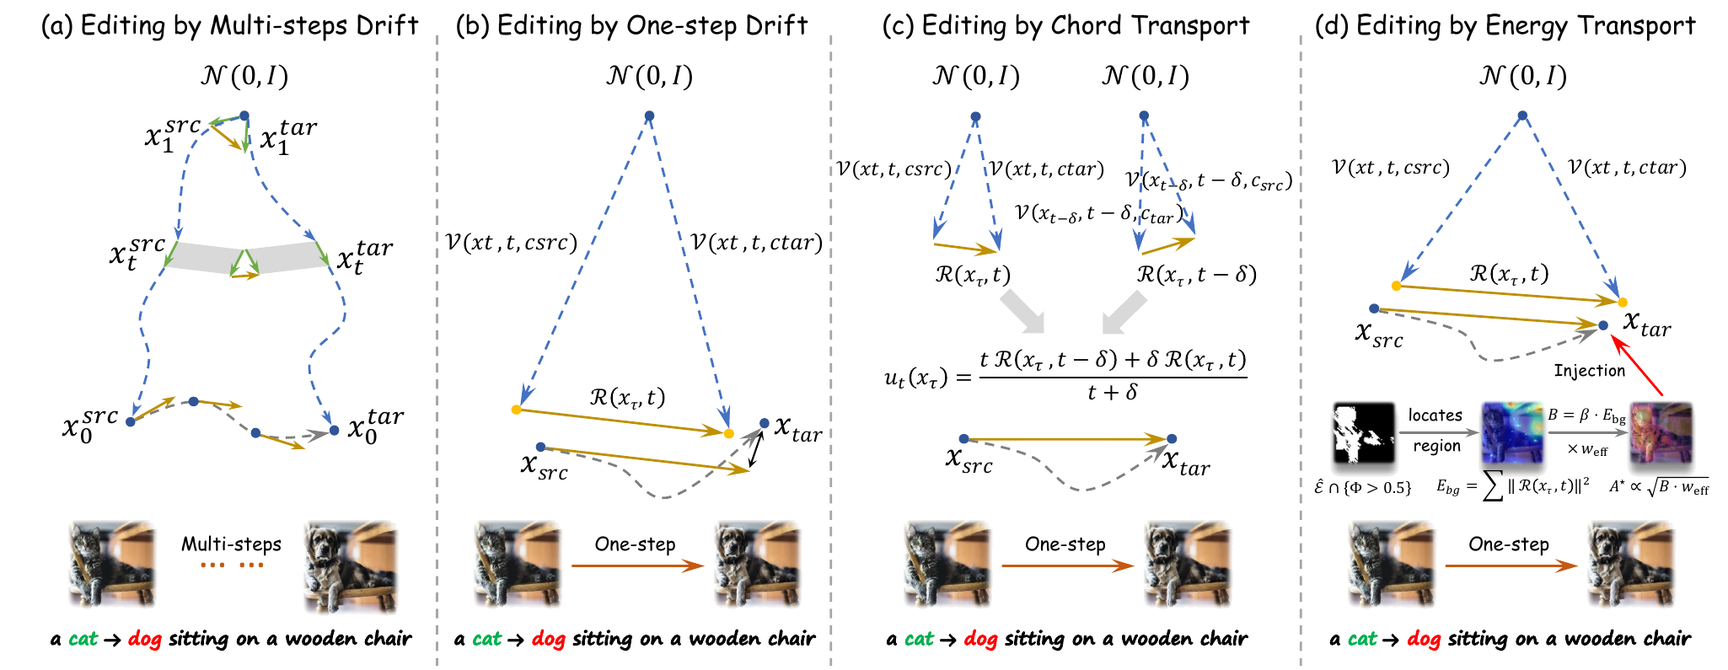
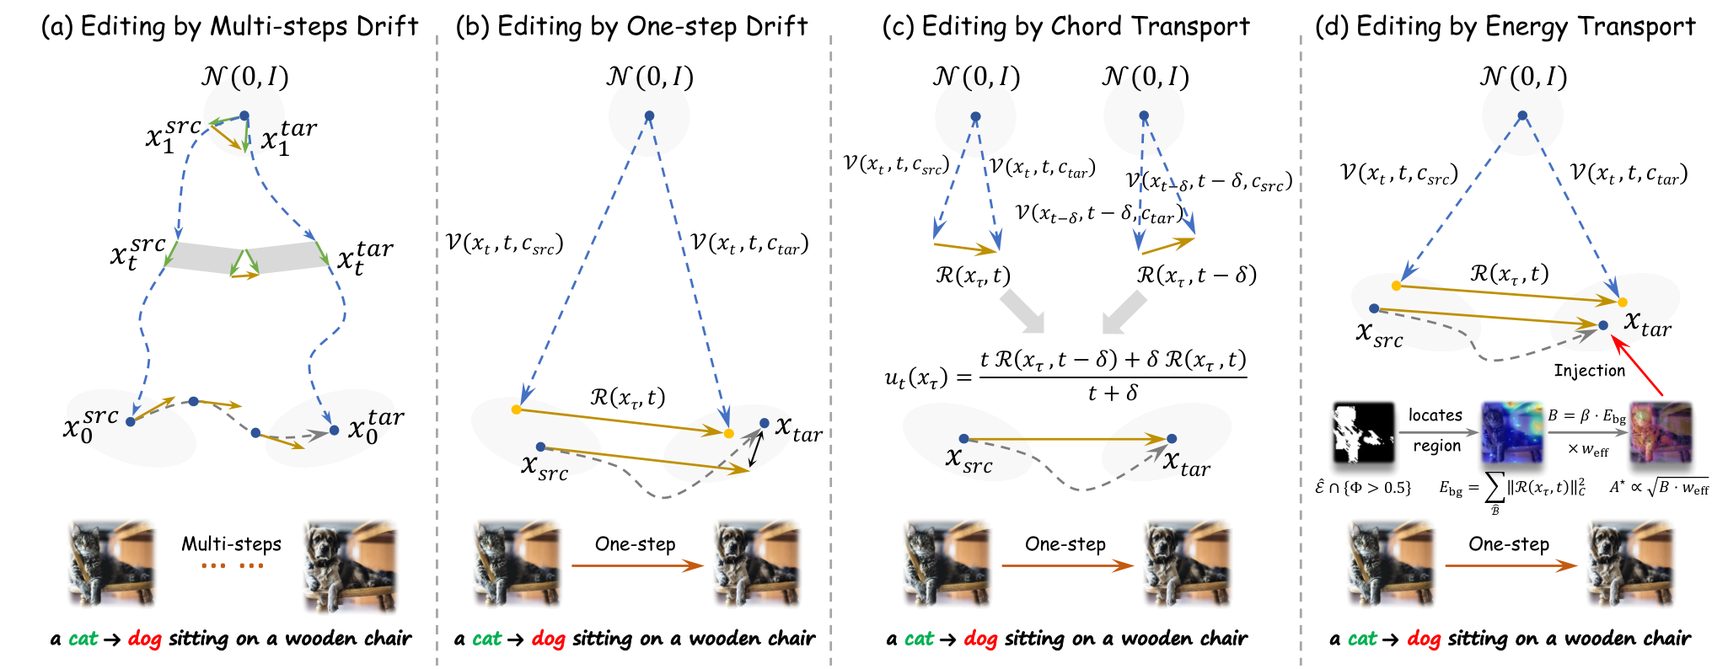
Sync page with the current manuscript
Abstract, teaser/figure captions and results prose had drifted behind the
paper; the factorial ablation table still carried a MUSIQ-E column from an
earlier run that no longer exists in the manuscript. Also adds the
cross-dataset/cross-backbone table and re-exports the three regenerated
figures with transparent backgrounds.

diff --git a/index.html b/index.html
@@ -112,7 +112,7 @@
               </div>
             </div>
             <figcaption class="figure-caption mt-3">
-              <strong>One-step editing by BudEdit.</strong> It allocates an image-dependent energy budget within the effective injection support, preserving background fidelity while substantially strengthening the edit.
+              <strong>One-step editing by BudEdit.</strong> It converts background residual energy into a spatial budget and allocates the constructed injection only to edit-relevant regions for stronger, more coherent edits.
             </figcaption>
           </div>
           <script>
@@ -173,11 +173,11 @@
           <p>
             One-step text-guided diffusion editing is efficient but prone to spatially misallocated updates that distort the edited object and alter the background.
             Existing methods often improve stability by averaging the editing field across timesteps.
-            We instead identify uncontrolled spatial energy allocation as a distinct and measurable failure mode: single-draw residual amplitudes are noise-sensitive, making the background field unsafe to transport directly but its total energy a usable per-image scale.
-            <strong>BudEdit</strong> turns that scale into an image-dependent budget and reallocates it to edit-relevant regions selected jointly by residual energy and cross-attention, controlling where editing energy is spent rather than averaging over timesteps.
-            The resulting training-free, inversion-free editor spends the budget on transport and reuses it to scale a gated refinement at a lower noise level, reusing cross-attention for localization at no additional UNet evaluation.
-            The budgeted injection field matches its image-dependent budget exactly and vanishes on the background support it identifies, by construction.
-            On PIE-Bench with SD-Turbo, BudEdit outperforms ChordEdit under each method's reported default settings on all 11 evaluated metrics, including a <strong>2.1&nbsp;dB</strong> gain in background PSNR, <strong>31%</strong> lower DINO, and <strong>36%</strong> lower LPIPS, while improving edited-region alignment and perceptual quality and reporting the lowest runtime in the comparison.
+            We instead identify spatial energy misallocation as a distinct and measurable failure mode: across two independent noise draws, the residual field is essentially unrepeatable, making the background field unreliable for direct transport, while its total energy still sets a usable magnitude for the draw at hand.
+            <strong>BudEdit</strong> turns that magnitude into an explicit budget and reallocates it to edit-relevant regions selected jointly by residual energy and cross-attention, controlling where editing energy is spent rather than averaging over timesteps.
+            The resulting training-free, inversion-free editor spends the budget on transport and reuses it to scale a correction in a lower-noise gated refinement.
+            The budgeted injection field matches its prescribed budget exactly and vanishes on the identified background support, by construction.
+            On PIE-Bench with SD-Turbo, BudEdit outperforms ChordEdit under each method's reported default settings on all 11 evaluated metrics, including a <strong>2.1&nbsp;dB</strong> gain in background PSNR, <strong>31%</strong> lower DINO, and <strong>36%</strong> lower LPIPS, while improving all five editing-quality metrics and reporting the lowest runtime in the comparison.
           </p>
         </div>
       </div>
@@ -194,7 +194,7 @@
         <div class="content has-text-justified is-size-6 motivation-points">
           <ul>
             <li>Distilled one-step generators (e.g. SD-Turbo) make real-time image editing practical, but a single large integration step remains unstable: the editing signal is a difference of two conditioned outputs, distorting the background.</li>
-            <li>Recent editors such as ChordEdit stabilize this by averaging the editing field across nearby timesteps, a purely temporal remedy. We ask instead: can the spatial distribution of the field be controlled explicitly?</li>
+            <li>Recent editors such as ChordEdit stabilize this by averaging the editing field across nearby timesteps, a purely temporal remedy; WhereEdit infers an edit mask and amplifies conditional transport, and RRLS refines the transport with a Riemannian residual line search &mdash; neither controls where the single-draw field deposits its energy. We ask instead: can the spatial distribution of the field be controlled explicitly rather than averaged uniformly across timesteps?</li>
             <li>Across two noise draws, the residual is essentially unrepeatable (cosine similarity &asymp; 0.1), so its raw amplitude is unsafe to transport, but its total energy is a stable scale. BudEdit turns this into an explicit spatial budget.</li>
           </ul>
         </div>
@@ -224,22 +224,26 @@
     <figure class="figure-block">
       <img src="static/images/fig2_framework.png" alt="BudEdit framework overview">
       <figcaption class="figure-caption">
-        <strong>Comparison of editing paradigms.</strong> BudEdit reallocates draw-sensitive residual energy within an attention-gated energy support, in contrast to temporal-smoothing approaches that average the field uniformly across timesteps.
+        <strong>Comparison of editing paradigms.</strong> (a) multi-step editing buys stability by spreading the update over many small steps; (b) one-step editing integrates the measured field in a single large step; (c) chord transport forms the one-step update from a time-weighted average of residual fields at two timesteps; (d) energy transport converts background residual energy into a budget and spends it inside the effective injection support.
       </figcaption>
     </figure>
 
     <div class="content has-text-justified is-size-6 mt-5">
-      <p><strong>Harvesting the budget.</strong> The aggregate residual energy measured on the operational background support, the region outside the model's own thresholded energy support, sets an image-dependent budget $B = \beta E_{\mathrm{bg}}$. This is a measurement-derived scale, not a conserved quantity being transported: the construction matches this prescribed budget exactly, without assuming conservation of the measured background energy.</p>
+      <p><strong>Harvesting the budget.</strong> The aggregate residual energy measured on the operational background support, the region outside the model's own thresholded energy support, sets an image-dependent budget $B = \beta E_{\mathrm{bg}}$ with $\beta{=}4.0$ by default. This is a measurement-derived scale, not a conserved quantity being transported: the construction matches this prescribed budget exactly, without assuming conservation of the measured background energy. Because the budget sums rather than averages, it carries the area of the background support, so the mean injected energy density scales with that area relative to the injection support: a small target on a large canvas receives a denser correction.</p>
       <p><strong>Allocation as information projection.</strong> Within the effective injection support, where the residual-energy support meets a prompt-difference attention gate, the budget is distributed by solving a KL-projection problem in closed form. The resulting amplitude map matches the attention-derived allocation profile exactly while consuming exactly the prescribed budget, and vanishes everywhere on the background support by construction.</p>
-      <p><strong>Budget-aware gated refinement.</strong> A second, lower-noise pass then cleans up the transported image within an attention-derived gate: GatedRefine scales its correction by the same budget $B$, reinjects attenuated source-side high-frequency detail, and performs an attention-gated micro-swap near uncertain boundaries, restoring source detail without expanding the supported edit region.</p>
+      <p><strong>Budget-aware gated refinement.</strong> A second forward pass at a lower noise level, reusing the noise realization of the transport pass, cleans up the transported image. Within a cleanup gate &mdash; the thresholded, dilated second-pass attention readout intersected with the second-pass energy support &mdash; GatedRefine starts from the target-conditioned prediction, reinjects a fraction of the same budget $B$ as a residual correction, and applies a gated local extrapolation to recover reliable but under-edited content; a low-amplitude high-frequency source anchor and an attention-modulated micro-swap then restore local texture and stabilize uncertain structure. Final fusion with the source image is governed by an output gate that keeps the transport support admitted by second-pass attention and adds only extensions jointly supported by the second-pass residual and attention.</p>
+    </div>
+
+    <div class="content has-text-justified is-size-6 mt-5">
+      <p><strong>Localization derives from the model itself.</strong> The residual-energy mask and the edit-attention map intersect to form the derived mask; editing uses no external or human-annotated mask, and the GT mask above is included for visual comparison only. In the Overlap panel, green marks the common support of the derived mask and the GT mask, while red and blue mark regions selected by only one of them. The appendix reports the overlap between the derived support and the annotated region over all $700$ pairs.</p>
     </div>
 
     <div class="columns is-centered mt-4">
       <div class="column is-four-fifths">
         <figure class="figure-block">
-          <img src="static/images/fig3_energy.png" alt="BudEdit energy visualization">
+          <img src="static/images/fig3_energy.png" alt="BudEdit annotation-free localization">
           <figcaption class="figure-caption">
-            <strong>Field energy visualization.</strong> Spatial energy is concentrated within the effective injection support and vanishes on the identified background support, illustrating the construction-level budget-matching and hard-support guarantees.
+            <strong>Annotation-free localization.</strong> Two edits, from birds to origami birds and from a dog to a lion. The columns show the Real Image, Energy Mask, Edit-Attention Map, Derived Mask, GT Mask, Overlap, background energy, field energy of the composed transport field, and output.
           </figcaption>
         </figure>
       </div>
@@ -254,8 +258,10 @@
 
     <div class="content has-text-justified is-size-6">
       <p>
-        On <strong>PIE-Bench</strong> with SD-Turbo (700 images, 10 editing categories, one sampling step and two UNet evaluations), BudEdit is compared against multi-step, few-step, and one-step editors under each method's own reported default configuration.
-        Among <em>training-free one-step</em> editors, BudEdit leads all six background-fidelity metrics and both edited-region alignment metrics against ChordEdit, while reporting the lowest runtime (<strong>0.21s</strong>) in the comparison &mdash; a <strong>2.1&nbsp;dB</strong> PSNR gain, <strong>31%</strong> lower DINO, and <strong>36%</strong> lower LPIPS.
+        On <strong>PIE-Bench</strong> with SD-Turbo (700 images, 10 editing categories, all $512{\times}512$, seed fixed at 42 for all methods), BudEdit is compared against multi-step, few-step, and one-step editors under each method's own reported default configuration. Like ChordEdit, BudEdit uses one sampling step and two UNet evaluations, with $t_s{=}0.78$, $t_e{=}0.38$, $\alpha{=}0.7$ and $\beta{=}4.0$; runtimes are measured on an RTX 4090.
+        Among one-step methods, BudEdit achieves the highest PSNR, CLIP-D, MUSIQ and MUSIQ-E while using two UNet evaluations and reporting the lowest runtime of <strong>0.21&nbsp;s</strong> per image.
+        Among <em>training-free one-step</em> editors it leads all six background-fidelity metrics and exceeds ChordEdit on <strong>all five</strong> editing-quality metrics &mdash; a <strong>2.1&nbsp;dB</strong> background PSNR gain, <strong>31%</strong> lower DINO, and <strong>36%</strong> lower LPIPS &mdash; while SwiftEdit reaches its background numbers only with task-specific training.
+        The few-step and multi-step methods provide a broader quality&ndash;compute reference rather than a same-budget ablation: they use $4$&ndash;$100$ evaluations and report $0.84$&ndash;$15.03$&nbsp;s per image, compared with BudEdit's two evaluations and $0.21$&nbsp;s.
       </p>
     </div>
 
@@ -290,7 +296,7 @@
           <tr><td rowspan="5">One-step</td><td>SwiftEdit</td><td class="cell-second">24.22</td><td class="cell-best">5.41</td><td class="cell-best">76.39</td><td class="cell-best">0.82</td><td class="cell-best">15.14</td><td class="cell-best">96.34</td><td>24.48</td><td>21.54</td><td>7.56</td><td>66.52</td><td>60.05</td><td>&#10007;</td><td>&#10007;</td><td>1</td><td>2</td><td>0.45</td><td>19500</td></tr>
           <tr><td>ChordEdit</td><td>22.63</td><td>7.98</td><td>122.66</td><td>0.77</td><td>28.81</td><td>95.04</td><td>24.83</td><td>22.15</td><td>10.72</td><td class="cell-second">67.21</td><td class="cell-second">60.19</td><td>&#10003;</td><td>&#10003;</td><td>1</td><td>2</td><td class="cell-second">0.26</td><td class="cell-second">7333</td></tr>
           <tr><td>WhereEdit</td><td>24.05</td><td>7.97</td><td>108.22</td><td>0.80</td><td>31.03</td><td>94.93</td><td>25.18</td><td class="cell-best">22.66</td><td>10.78</td><td>64.28</td><td>56.39</td><td>&#10003;</td><td>&#10003;</td><td>1</td><td>3</td><td>0.29</td><td>7339</td></tr>
-          <tr><td>RRLS</td><td>23.92</td><td>6.27</td><td>111.40</td><td>0.81</td><td>25.07</td><td>95.21</td><td class="cell-best">25.38</td><td>22.09</td><td class="cell-second">11.47</td><td>65.90</td><td>57.79</td><td>&#10003;</td><td>&#10003;</td><td>1</td><td>4</td><td>0.52</td><td class="cell-second">7333</td></tr>
+          <tr><td>RRLS</td><td>23.92</td><td>6.27</td><td>111.40</td><td class="cell-second">0.81</td><td>25.07</td><td>95.21</td><td class="cell-best">25.38</td><td>22.09</td><td class="cell-second">11.47</td><td>65.90</td><td>57.79</td><td>&#10003;</td><td>&#10003;</td><td>1</td><td>4</td><td>0.52</td><td class="cell-second">7333</td></tr>
           <tr class="highlight-row"><td><strong>BudEdit</strong></td><td class="cell-best"><strong>24.71</strong></td><td class="cell-second"><strong>5.54</strong></td><td class="cell-second"><strong>78.24</strong></td><td class="cell-best"><strong>0.82</strong></td><td class="cell-second"><strong>20.01</strong></td><td class="cell-second"><strong>96.17</strong></td><td class="cell-second"><strong>25.25</strong></td><td class="cell-second"><strong>22.52</strong></td><td class="cell-best"><strong>12.28</strong></td><td class="cell-best"><strong>67.77</strong></td><td class="cell-best"><strong>60.31</strong></td><td>&#10003;</td><td>&#10003;</td><td><strong>1</strong></td><td><strong>2</strong></td><td class="cell-best"><strong>0.21</strong></td><td class="cell-best"><strong>7319</strong></td></tr>
         </tbody>
       </table>
@@ -303,7 +309,7 @@
     <figure class="figure-block mt-5">
       <img src="static/images/fig6_comparison.png" alt="BudEdit qualitative comparison">
       <figcaption class="figure-caption">
-        <strong>Qualitative comparison.</strong> BudEdit produces clearly delineated edits (e.g. a well-defined lion mane in latte art) while better preserving background surroundings (e.g. the plate and side dishes in the steak-to-salmon example) compared with representative baselines.
+        <strong>Qualitative comparison with the methods of the table above.</strong> Several baselines exhibit background color shifts, ghosting, or structural distortion, while BudEdit better preserves the source surroundings and produces detailed edits with clean boundaries, retaining the intended edit semantics throughout. In the lion latte-art example it yields a clearly delineated mane while preserving the cup and table appearance of the source; in the steak-to-salmon example it preserves the dark plate and side dishes.
       </figcaption>
     </figure>
   </div>
@@ -315,7 +321,10 @@
     <h2 class="title is-3 has-text-centered">Ablation Study</h2>
     <div class="content has-text-justified is-size-6">
       <p>
-        Ablations confirm that both the spatial reallocation mechanism and the second-pass cleanup are individually necessary and jointly complementary: reallocation alone can overlay target texture without fully completing the edit, cleanup alone yields only a slight structural change, and only the full configuration converts the edit coherently while preserving the background.
+        <strong>Comparison with chord transport.</strong> Disabling ChordEdit's chord window ($\delta{=}0$) raises CLIP-E from $22.15$ to $22.54$, but lowers MUSIQ-E from $60.19$ to $55.97$ and background PSNR from $22.63$ to $20.13$&nbsp;dB, and the window-off outputs show visible background and structural distortion. CLIP-E alone therefore does not fully reflect edit quality, which is why MUSIQ-E is reported as a complementary measure of edited-region perceptual quality. Without relying on temporal smoothing, BudEdit improves all five metrics over ChordEdit's smoothed default; against the window-off row it gives up only $0.02$ CLIP-E while improving background PSNR by $4.58$&nbsp;dB and MUSIQ-E by $4.34$ points.
+      </p>
+      <p>
+        <strong>Matched effective timestep.</strong> ChordEdit's default window assigns six sevenths of its weight to $t_s-\delta$, so with $t_s{=}0.9$ and $\delta{=}0.15$ its weighted-average time is $t_s-6\delta/7=0.771$, close to BudEdit's direct timestep $t_s{=}0.78$. This is consistent with temporal smoothing shifting ChordEdit toward a lower effective timestep, while the mechanisms remain different: ChordEdit averages fields globally over time, whereas BudEdit evaluates directly at $t_s{=}0.78$ and controls the trade-off through spatial energy budgeting.
       </p>
     </div>
 
@@ -334,15 +343,21 @@
           </table>
         </div>
         <p class="figure-caption ablation-caption has-text-centered">
-          <strong>ChordEdit temporal-window ablation.</strong> ChordEdit rows use $t_s{=}0.9$; BudEdit uses $t_s{=}0.78$.
+          <strong>ChordEdit chord window ablation.</strong> $\delta{=}0.15$ is the default; $\delta{=}0$ disables the window.
         </p>
         <figure class="figure-block ablation-figure">
           <img src="static/images/fig9_chordnaive.png" alt="ChordEdit window ablation">
           <figcaption class="figure-caption ablation-caption">
-            <strong>ChordEdit window ablation.</strong> $\delta{=}0$ distorts the scene; BudEdit preserves scene and structure.
+            <strong>ChordEdit window ablation.</strong> ChordEdit with $\delta{=}0$ distorts the scene; BudEdit preserves the scene.
           </figcaption>
         </figure>
       </div>
+    </div>
+
+    <div class="content has-text-justified is-size-6">
+      <p>
+        <strong>Component ablations.</strong> Setting $\beta{=}0$ drops the budgeted injection field $f^{\star}$ from the composed field, leaving only the attenuated residual term; disabling cleanup drops the second UNet evaluation, halving NFE. Each factor helps alone: energy reallocation alone raises CLIP-E/CLIP-D by $0.31$/$1.57$ without cleanup, while cleanup gives the larger editing-quality gain, $+1.30$/$+5.87$ and $+1.08$ CLIP-W. They also interact &mdash; with cleanup on, the reallocation gains grow to $0.71$/$2.93$ &mdash; and the full configuration attains the best CLIP-W, CLIP-E and CLIP-D. Transporting less energy changes the background less, so the no-energy, no-cleanup setting holds the highest PSNR and SSIM. In the <em>office chair</em> $\to$ <em>straw chair</em> edit, budgeted energy reallocation alone overlays straw texture on the cushion, cleanup alone yields only a slight change to the armrests, and only the full configuration converts the chair coherently.
+      </p>
     </div>
 
     <div class="columns is-centered ablation-block">
@@ -350,25 +365,62 @@
         <div class="table-container academic-table-wrap">
           <table class="table is-bordered is-narrow is-hoverable academic-table">
             <thead>
-              <tr><th>Energy</th><th>Cleanup</th><th>PSNR&uarr;</th><th>SSIM&uarr;</th><th>CLIP-E&uarr;</th><th>CLIP-D&uarr;</th><th>MUSIQ-E&uarr;</th><th>NFE&darr;</th></tr>
+              <tr><th>Energy</th><th>Cleanup</th><th>PSNR&uarr;</th><th>SSIM&uarr;</th><th>CLIP-W&uarr;</th><th>CLIP-E&uarr;</th><th>CLIP-D&uarr;</th><th>NFE&darr;</th></tr>
             </thead>
             <tbody>
-              <tr><td>&#10007;</td><td>&#10007;</td><td class="cell-best">26.14</td><td class="cell-best">0.85</td><td>20.51</td><td>3.48</td><td>54.49</td><td class="cell-best">1</td></tr>
-              <tr><td>&#10003;</td><td>&#10007;</td><td>25.73</td><td>0.84</td><td>20.82</td><td>5.05</td><td>54.77</td><td class="cell-best">1</td></tr>
-              <tr><td>&#10007;</td><td>&#10003;</td><td>25.92</td><td>0.82</td><td>21.81</td><td>9.35</td><td>59.47</td><td>2</td></tr>
-              <tr class="highlight-row"><td>&#10003;</td><td>&#10003;</td><td>24.71</td><td>0.82</td><td class="cell-best">22.52</td><td class="cell-best">12.28</td><td class="cell-best">60.31</td><td>2</td></tr>
+              <tr><td>&#10007;</td><td>&#10007;</td><td class="cell-best">26.14</td><td class="cell-best">0.85</td><td>23.51</td><td>20.51</td><td>3.48</td><td class="cell-best">1</td></tr>
+              <tr><td>&#10003;</td><td>&#10007;</td><td>25.73</td><td>0.84</td><td>23.73</td><td>20.82</td><td>5.05</td><td class="cell-best">1</td></tr>
+              <tr><td>&#10007;</td><td>&#10003;</td><td>25.92</td><td>0.83</td><td>24.59</td><td>21.81</td><td>9.35</td><td>2</td></tr>
+              <tr class="highlight-row"><td>&#10003;</td><td>&#10003;</td><td>24.71</td><td>0.82</td><td class="cell-best">25.25</td><td class="cell-best">22.52</td><td class="cell-best">12.28</td><td>2</td></tr>
             </tbody>
           </table>
         </div>
         <p class="figure-caption ablation-caption has-text-centered">
-          <strong>Factorial ablation of energy reallocation and cleanup.</strong> Bold marks column best.
+          <strong>Factorial ablation of energy reallocation and cleanup.</strong> Highlighted cells mark column best.
         </p>
         <figure class="figure-block ablation-figure">
           <img src="static/images/fig4_ablation.png" alt="BudEdit component ablation">
           <figcaption class="figure-caption ablation-caption">
-            <strong>Qualitative and energy analysis.</strong> Injection: energy of the budgeted field; field energy: energy of the transport field.
+            <strong>Qualitative and energy analysis.</strong> Injection: energy of $f^{\star}$; field energy: energy of the transport field. Heatmaps use the full configuration.
           </figcaption>
         </figure>
+      </div>
+    </div>
+  </div>
+</section>
+
+<!-- ============================== GENERALIZATION ============================== -->
+<section class="section">
+  <div class="container is-max-desktop">
+    <h2 class="title is-3 has-text-centered">Cross-Dataset and Cross-Backbone Analysis</h2>
+    <div class="columns is-centered">
+      <div class="column is-four-fifths">
+        <div class="content has-text-justified is-size-6">
+          <p>
+            The comparison crosses two datasets, PIE-Bench and the multi-aspect PIE-Bench++ of ParallelEdits, with two one-step backbones, SD-Turbo and SwiftBrushV2, using the same hyperparameters throughout. BudEdit achieves the best background preservation and editing quality across all four settings, improving background PSNR by over $2$&nbsp;dB. The appendix reports all eleven metrics.
+          </p>
+        </div>
+        <div class="table-container academic-table-wrap">
+          <table class="table is-bordered is-narrow is-hoverable academic-table">
+            <thead>
+              <tr>
+                <th rowspan="2">Dataset</th><th rowspan="2">Backbone</th>
+                <th colspan="2" class="has-text-centered">PSNR&uarr;</th>
+                <th colspan="2" class="has-text-centered">CLIP-E&uarr;</th>
+              </tr>
+              <tr><th>ChordEdit</th><th>BudEdit</th><th>ChordEdit</th><th>BudEdit</th></tr>
+            </thead>
+            <tbody>
+              <tr><td rowspan="2">PIE-Bench</td><td>SD-Turbo</td><td>22.63</td><td class="cell-second"><strong>24.71</strong></td><td>22.15</td><td class="cell-second"><strong>22.52</strong></td></tr>
+              <tr><td>SwiftBrushV2</td><td>22.93</td><td class="cell-second"><strong>25.49</strong></td><td>21.18</td><td class="cell-second"><strong>21.26</strong></td></tr>
+              <tr><td rowspan="2">PIE-Bench++</td><td>SD-Turbo</td><td>22.87</td><td class="cell-second"><strong>25.06</strong></td><td>24.12</td><td class="cell-second"><strong>24.27</strong></td></tr>
+              <tr><td>SwiftBrushV2</td><td>23.16</td><td class="cell-second"><strong>25.83</strong></td><td>22.46</td><td class="cell-second"><strong>22.70</strong></td></tr>
+            </tbody>
+          </table>
+        </div>
+        <p class="figure-caption has-text-centered">
+          <strong>Quantitative comparison on different datasets and backbones.</strong> Blue marks BudEdit.
+        </p>
       </div>
     </div>
   </div>
@@ -380,7 +432,7 @@
     <h2 class="title is-3 has-text-centered">Conclusion</h2>
     <div class="content has-text-justified is-size-6">
       <p>
-        BudEdit identifies uncontrolled spatial energy allocation as a measurable failure mode of one-step diffusion editing, distinct from the temporal instability that prior work has targeted. By converting the total residual energy on the background support into an image-dependent budget, and allocating it via a closed-form information projection over an attention-gated support, BudEdit controls where editing energy is spent rather than only how much of it survives across timesteps. This training-free, inversion-free approach improves on all 11 evaluated PIE-Bench metrics over ChordEdit while reporting the lowest runtime among the compared one-step editors, and the budgeted injection field provably vanishes on the background support it identifies.
+        BudEdit addresses spatially misallocated updates in one-step diffusion editing by converting single-draw background residual energy into an image-dependent budget and re-injecting it into the regions selected jointly by residual energy and cross-attention, with exact injection-budget matching and zero injection on the operational background support. On PIE-Bench, it outperforms the temporal-smoothing approach of ChordEdit on all 11 reported metrics, including a <strong>2.1&nbsp;dB</strong> PSNR gain, at the lowest runtime in the comparison. Together, these results establish explicit spatial energy budgeting as an alternative to temporal smoothing for stable, efficient, controllable one-step editing.
       </p>
     </div>
   </div>
